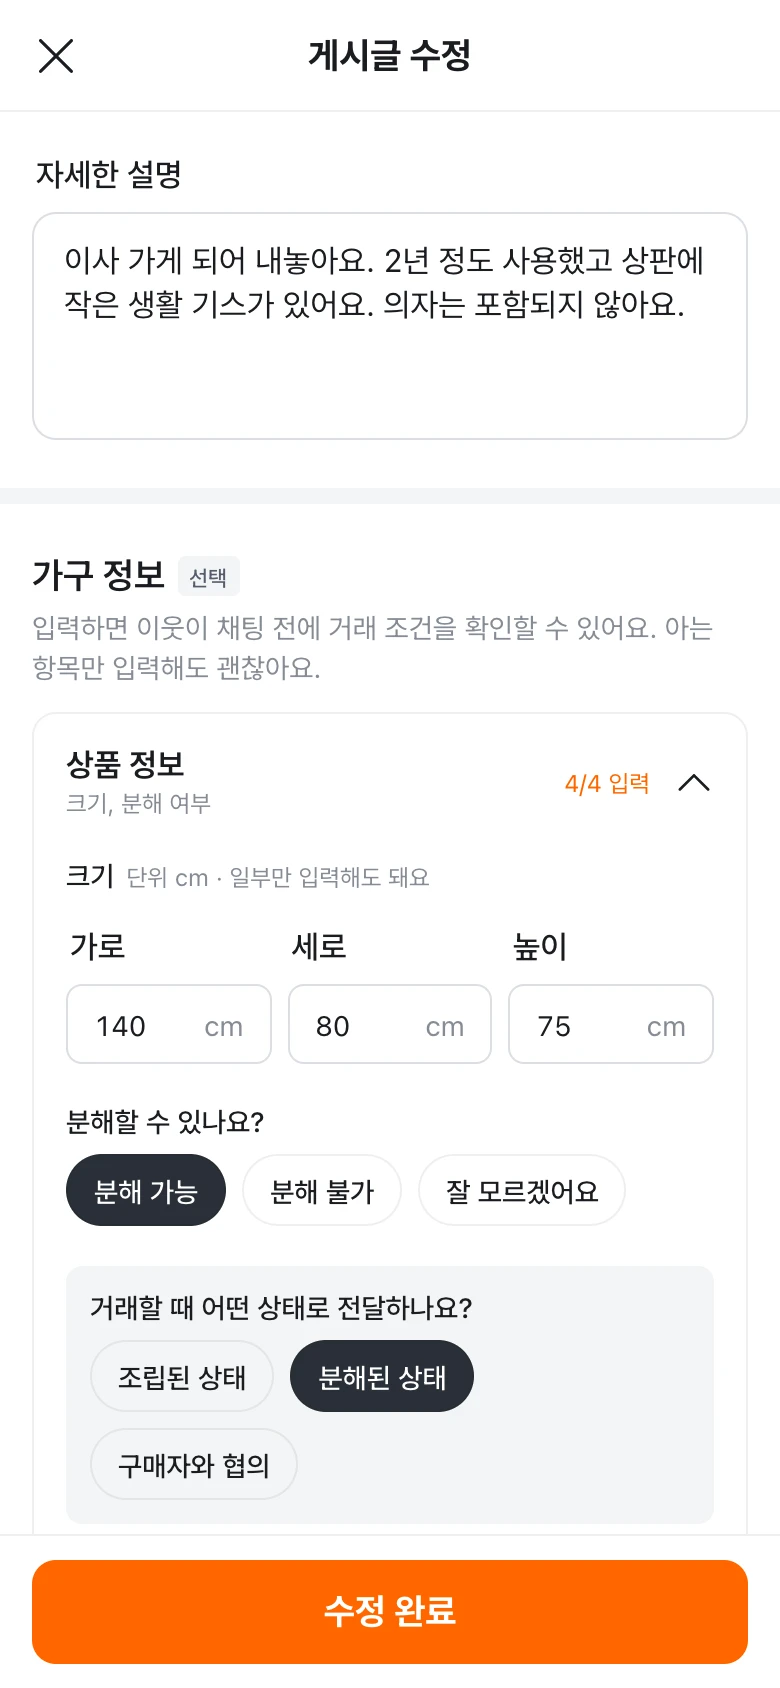
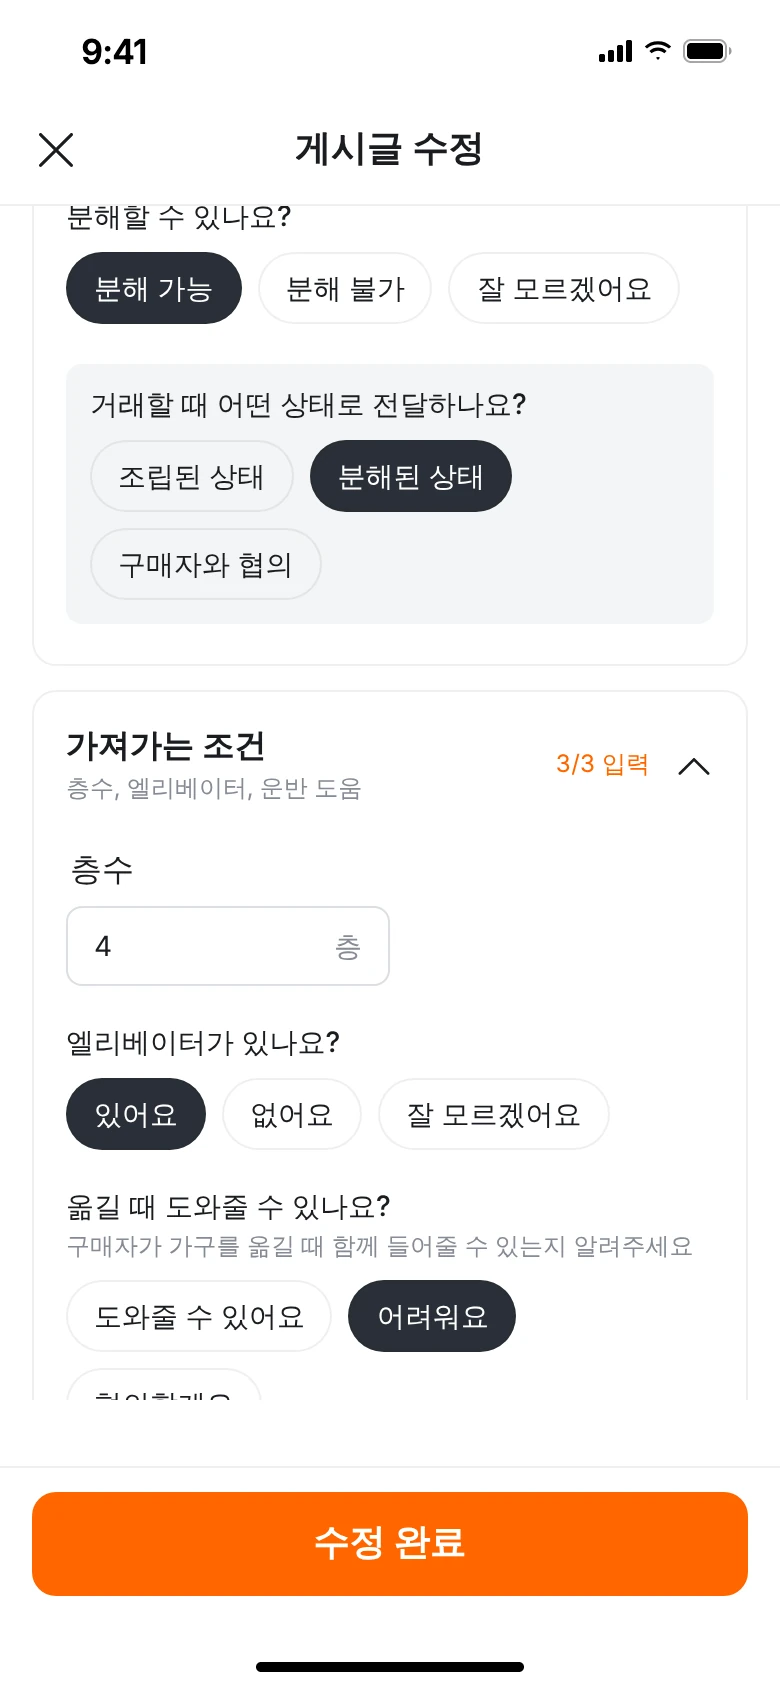
feat: 당근 전체 UI 20장을 새 PNG로 교체(긴 화면은 설명 위치 + 하단 CTA 고정), 가려진 끝부분 복원, 판매글 작성 AS-IS 화면 추가

diff --git a/src/data/projects.ts b/src/data/projects.ts
@@ -148,24 +148,27 @@ export const projects: Project[] = [
       { src: '/images/karrot-large-furniture/f-home.webp', alt: '동네 홈 목록: 원목 4인용 식탁 등 가구 판매글과 글쓰기 버튼', caption: '동네 홈' },
       { src: '/images/karrot-large-furniture/L-s2.webp', alt: '판매글 작성을 아래로 스크롤하면 나오는 선택 입력 가구 정보 섹션', caption: '판매자 · 글 작성' },
       { src: '/images/karrot-large-furniture/L-s3.webp', alt: '가구 정보 입력: 크기와 분해 여부, 가져가는 조건을 선택해서 입력', caption: '가구 정보 입력' },
+      { src: '/images/karrot-large-furniture/f-s4.webp', alt: '높이에 0을 입력했을 때 0보다 큰 숫자로 입력해 달라고 알려주는 화면', caption: '크기 입력 오류' },
+      { src: '/images/karrot-large-furniture/L-s5.webp', alt: '비정상적으로 큰 크기 값을 입력했을 때 재확인을 요청하는 화면', caption: '큰 값 재확인' },
+      { src: '/images/karrot-large-furniture/f-recheck.webp', alt: '가로 1,400cm처럼 큰 값을 입력하면 맞는지 다시 묻는 확인창', caption: '등록 전 재확인' },
       { src: '/images/karrot-large-furniture/f-confirm.webp', alt: '입력 정보 확인: 구매자에게 보이는 모습을 미리 보고 등록', caption: '입력 정보 확인' },
       { src: '/images/karrot-large-furniture/f-confirm-empty.webp', alt: '입력 정보 확인: 가구 정보를 입력하지 않으면 아직 입력되지 않았어요로 표시', caption: '입력 정보 확인 · 미입력' },
       { src: '/images/karrot-large-furniture/L-s9.webp', alt: '판매글을 올린 직후 판매자 상세 화면', caption: '등록 직후 상세' },
       { src: '/images/karrot-large-furniture/L-b1.webp', alt: '상품 상세를 스크롤하면 나오는 거래 정보 카드: 크기 및 분해, 가져가는 조건이 정리됨', caption: '구매자 · 상세(스크롤)' },
+      { src: '/images/karrot-large-furniture/L-b2.webp', alt: '일부만 입력된 상품 상세: 미입력과 모름을 구분해 표시', caption: '상세 · 일부 입력' },
       { src: '/images/karrot-large-furniture/f-b3.webp', alt: '어떤 정보가 궁금하세요? 질문 고르기 바텀시트', caption: '질문 고르기' },
       { src: '/images/karrot-large-furniture/f-b4.webp', alt: '고른 질문이 채팅 입력창 초안으로 추가된 화면', caption: '채팅 질문 초안' },
       { src: '/images/karrot-large-furniture/L-c1.webp', alt: '판매자가 게시글 수정 화면에서 가격과 설명을 고치는 화면', caption: '판매자 · 게시글 수정' },
-      { src: '/images/karrot-large-furniture/f-c3.webp', alt: '상세 상단에 판매자가 상품 정보를 수정했다는 안내와 이전 가격이 보이는 화면', caption: '상세 · 변경 안내' },
       { src: '/images/karrot-large-furniture/f-c2.webp', alt: '채팅방에 판매자가 상품 정보를 수정했다는 시스템 메시지가 남은 화면', caption: '채팅 · 변경 알림' },
-      { src: '/images/karrot-large-furniture/k-changed.webp', alt: '판매자가 수정한 가격·분해 여부를 비교하는 바텀시트', caption: '변경 내용 비교' },
-      { src: '/images/karrot-large-furniture/L-s5.webp', alt: '비정상적으로 큰 크기 값을 입력했을 때 재확인을 요청하는 화면', caption: '큰 값 재확인' },
-      { src: '/images/karrot-large-furniture/L-b2.webp', alt: '일부만 입력된 상품 상세: 미입력과 모름을 구분해 표시', caption: '상세 · 일부 입력' },
+      { src: '/images/karrot-large-furniture/f-c3.webp', alt: '상세 상단에 판매자가 상품 정보를 수정했다는 안내와 이전 가격이 보이는 화면', caption: '상세 · 변경 안내' },
+      { src: '/images/karrot-large-furniture/f-c4.webp', alt: '판매자가 수정한 가격·분해 여부를 비교하는 바텀시트', caption: '변경 내용 비교' },
       { src: '/images/karrot-large-furniture/L-e1.webp', alt: '정보 조회에 실패했을 때의 상세 화면', caption: '정보 조회 실패' },
+      { src: '/images/karrot-large-furniture/f-e2.webp', alt: '거래 정보를 다시 불러오는 중일 때의 상세 화면', caption: '다시 불러오는 중' },
       { src: '/images/karrot-large-furniture/f-done.webp', alt: '거래가 완료된 상품 상세: 거래완료 안내와 비활성 버튼', caption: '거래 완료' },
     ],
     sections: [
       { id: 'overview', title: 'Overview', body: '질문하기 전에 알 수 있는 당근 상품 정보. 대형 가구 중고거래에서 판매자가 거래 조건을 쉽게 입력하고, 구매자가 채팅 전에 필요한 정보를 확인하도록 설계한 비공식 UX 개선 프로젝트입니다(PRD v2.1).\n\n기획, 디자인, 프로토타입 구현을 혼자 진행했습니다.' },
-      { id: 'screens', title: 'Screens (프로토타입 캡처)', body: '당근의 비공식 개인 UX 개선 제안이며 소속 회사와 무관합니다. 아래는 당근 SEED Design의 공개 토큰·컴포넌트를 바탕으로 React로 구현한 클릭형 프로토타입(20개 화면 중 일부)을 캡처한 화면이고, 상품 정보는 예시입니다.' },
+      { id: 'screens', title: 'Screens (개선안 화면 20개)', body: '당근의 비공식 개인 UX 개선 제안이며 소속 회사와 무관합니다. 아래는 당근 SEED Design의 공개 토큰·컴포넌트를 바탕으로 설계한 개선안 화면 20개입니다. 긴 화면은 설명에 맞는 위치를 보여주고 하단 버튼은 실제 앱처럼 화면 아래에 고정했어요. 화면을 누르면 끝까지 스크롤해서 볼 수 있어요. 상품 정보는 예시입니다.' },
       { id: 'problem', title: 'Problem', body: '대형 가구 거래에서는 상품 크기, 분해 가능 여부, 운반 조건이 구매 결정에 중요한 정보가 될 수 있습니다. 그런데 이 정보가 상품 설명에 빠지거나 자유로운 문장으로 쓰이면, 구매자는 필요한 정보를 찾기 어렵고 판매자에게 같은 질문을 반복해야 할 수 있습니다.\n\n핵심 문제: 구매자는 대형 가구의 거래 가능 여부를 판단하는 데 필요한 정보를 채팅 전에 충분히 확인하기 어렵다.\n\n※ 디자인 가설입니다. 실제 발생 빈도와 영향은 사용자 테스트로 검증해야 합니다.' },
       { id: 'research', title: 'Evidence / Research', body: '실제 서비스를 쓰는 사람들의 불편을 구글 플레이·앱스토어 앱 리뷰와 블로그 등 웹 후기에서 VOC로 모았고, 실제 사용자 인터뷰도 진행했습니다. 이 근거를 바탕으로 PRD의 문제 정의를 세웠습니다.\n\n※ VOC와 인터뷰의 원자료가 남아 있지 않아 표본 수, 인용, 수치는 싣지 않습니다. 문제의 실제 발생 빈도와 영향은 사용성 테스트로 검증해야 하는 디자인 가설입니다.' },
       { id: 'insight', title: 'Insight', body: '정보를 더 많이 입력하게 만드는 것이 아니라, 구매자가 판단하는 데 필요한 정보를 쉽게 제공하는 것이 핵심이라고 정리했습니다. 또 "아직 입력되지 않음", "판매자도 모름", "불러오지 못함"은 서로 다른 상태라서 구분해 보여줘야 한다고 보았습니다.' },

diff --git a/src/pages/CaseGeneric.tsx b/src/pages/CaseGeneric.tsx
@@ -362,7 +362,7 @@ function Olive({ c }: { c: Ctx }) {
 const I2 = (n: string) => `/images/karrot-large-furniture/${n}.webp`
 const karrotCompare: CompareData[] = [
   { n: '01', title: '판매글 작성 · 가구 정보를 따로 받아요', sub: '판매자가 크기·분해 여부·운반 조건을 자유 서술에 의존하지 않고 선택 입력 섹션으로 정리해 남길 수 있어요.',
-    before: { src: '', alt: '', label: '현재 당근 앱' },
+    before: { src: I2('asis-write'), alt: '현재 당근 앱 판매글 작성: 사진, 제목, 자세한 설명, 가격 입력만 있고 대형 가구 거래 조건을 입력하는 칸이 없음', label: '현재 당근 앱' },
     afters: [{ src: I2('L-s2'), alt: '개선 판매글 작성: 자세한 설명 아래에 선택 입력 가구 정보 섹션', tag: 'S2', label: '판매글 작성 · 아래로 스크롤' }, { src: I2('L-s3'), alt: '개선 가구 정보 입력: 크기와 분해 여부, 가져가는 조건 입력', tag: 'S3', label: '가구 정보 입력 · 펼친 상태' }],
     current: ['크기·분해 여부·운반 조건을 ‘자세한 설명’ 자유 입력란에 쓸 수 있어요. 판매자마다 쓰는 정보의 양과 형식이 달라져요.', '거래 방식·가격 외에 대형 가구 거래에 필요한 조건(층수, 엘리베이터, 운반 도움)을 입력하는 칸이 없어요.'],
     improved: ['S2 · 판매글 작성에 ‘가구 정보’ 섹션을 선택 입력으로 추가했어요. 상품 정보(크기, 분해 여부)와 가져가는 조건(층수, 엘리베이터, 운반 도움)으로 나뉘어요.', 'S3 · 아는 항목만 입력해도 되고 섹션별 입력 진행도(4/4 입력, 3/3 입력)를 바로 보여줘요.'] },
@@ -443,8 +443,8 @@ function Karrot({ c }: { c: Ctx }) {
         <Reveal><blockquote className="mt-10 text-[28px] md:text-[40px] font-bold tracking-tight leading-snug max-w-[26ch]" style={{ borderLeft: `6px solid ${A}`, paddingLeft: 24 }}>{p.problem}</blockquote></Reveal>
         <ul className="mt-12 grid md:grid-cols-3 gap-5">{[['크기', '가로·세로·높이를 설명에서 찾아야 함'], ['분해 · 운반', '분해 가능 여부와 가져가는 조건이 문장으로 흩어짐'], ['반복 질문', '판매자에게 같은 질문을 되풀이해야 할 수 있음']].map(([a, b]) => <li key={a} className="rounded-[20px] p-6" style={{ background: T(14) }}><p className="text-[13px] font-semibold" style={{ color: S }}>{a}</p><p className="mt-2 text-[17px] leading-snug">{b}</p></li>)}</ul>
         <div className="mt-14"><p className="eyebrow text-sub">실제 당근 앱 · AS-IS 캡처</p>
-          <ul className="mt-5 grid grid-cols-3 gap-4 md:gap-8 max-w-3xl">{[['asis-search', '대형가구 검색 결과'], ['asis-desc', '상품 본문: 크기가 문장 속에'], ['asis-loc', '거래 장소·용달비 안내']].map(([n, l]) => <li key={n}><Fig src={I(n)} alt={`실제 당근 앱 ${l}`} cap={l} /></li>)}</ul>
-          <p className="mt-4 text-[13px] text-sub max-w-3xl">실제 앱 화면 캡처이며 판매자 닉네임, 거래 장소 주소·지도, 캡처한 사람의 정보는 가렸습니다.</p></div>
+          <ul className="mt-5 grid grid-cols-3 gap-4 md:grid-cols-5 md:gap-6 max-w-5xl">{[['asis-write', '판매글 작성: 제목·설명·가격만 입력'], ['asis-write-ai', '사진 분석 중(AI 작성)'], ['asis-search', '대형가구 검색 결과'], ['asis-desc', '상품 본문: 크기가 문장 속에'], ['asis-loc', '거래 장소·용달비 안내']].map(([n, l]) => <li key={n}><Fig src={I(n)} alt={`실제 당근 앱 ${l}`} cap={l} /></li>)}</ul>
+          <p className="mt-4 text-[13px] text-sub max-w-3xl">실제 앱 화면 캡처이며 판매자 닉네임, 거래 장소 주소·지도, 캡처한 사람의 정보는 가렸습니다. 판매글 작성 화면 두 장은 동네 이름과 거래 희망 장소를 가리지 않았습니다.</p></div>
         <p className="mt-10 text-[13px] text-sub max-w-3xl">앱 리뷰·블로그 VOC와 인터뷰를 근거로 PRD 문제를 정의했습니다. 원자료가 없어 표본 수와 수치는 싣지 않았고, 발생 빈도와 영향은 사용성 테스트로 검증해야 하는 디자인 가설입니다.</p>
       </section>
 
@@ -469,7 +469,7 @@ function Karrot({ c }: { c: Ctx }) {
           <Reveal className="mt-20 md:mt-24 md:grid md:grid-cols-12 gap-10 items-center">
             <div className="md:col-span-5"><Num n="03" t="질문은 초안으로만, 보내는 건 사용자" />
               <ul className="mt-8 space-y-5"><Ann color={A} n="A" t="궁금한 항목만 골라 채팅 초안 생성" /><Ann color={A} n="B" t="자동 전송하지 않고 기존 입력을 보존" d="사용자가 고치고 직접 보냅니다." /><Ann color={A} n="C" t="정보가 바뀌면 변경 항목만 비교" d="이전 값이 실제로 있을 때만 전후를 보여줍니다." /></ul></div>
-            <div className="mt-10 md:mt-0 md:col-span-7 grid grid-cols-3 gap-4 md:gap-6"><Fig src={I('f-b3')} alt="질문 고르기" cap="질문 고르기" /><Fig src={I('k-chat')} alt="채팅 질문 초안" cap="채팅 초안" className="md:mt-10" /><Fig src={I('k-changed')} alt="변경 내용 비교" cap="변경 비교" /></div>
+            <div className="mt-10 md:mt-0 md:col-span-7 grid grid-cols-3 gap-4 md:gap-6"><Fig src={I('f-b3')} alt="질문 고르기" cap="질문 고르기" /><Fig src={I('f-b4')} alt="채팅 질문 초안" cap="채팅 초안" className="md:mt-10" /><Fig src={I('f-c4')} alt="변경 내용 비교" cap="변경 비교" /></div>
           </Reveal>
         </div>
       </section>

diff --git a/src/components/Modal.tsx b/src/components/Modal.tsx
@@ -1,4 +1,5 @@
 import { useEffect, useRef, useState, type ReactNode } from 'react'
+import { karrotFull } from '../data/karrotBig'
 
 // 네이티브 <dialog>: 포커스 가두기·Esc·배경 클릭 닫기, 닫히면 트리거로 포커스 복귀.
 export function Modal({ open, onClose, label, children }: { open: boolean; onClose: () => void; label: string; children: ReactNode }) {
@@ -22,6 +23,9 @@ export function Modal({ open, onClose, label, children }: { open: boolean; onClo
 // 이미지를 누르면 크게 보는 버튼형 이미지
 export function Zoomable({ src, alt, caption, className = '', imgClass = '', big }: { src: string; alt: string; caption?: string; className?: string; imgClass?: string; big?: string }) {
   const [open, setOpen] = useState(false)
+  const kf = big ? undefined : karrotFull(src)
+  const full = big ?? (kf && 'big' in kf ? kf.big : undefined)
+  const wrap = 'mx-auto max-h-[74vh] w-[min(390px,92vw)] overflow-y-auto overscroll-contain rounded-[20px] bg-white'
   return (
     <>
       <button type="button" className={`zoomable ${className}`} onClick={() => setOpen(true)} aria-label={`${alt}: 크게 보기`}>
@@ -29,9 +33,11 @@ export function Zoomable({ src, alt, caption, className = '', imgClass = '', big
       </button>
       <Modal open={open} onClose={() => setOpen(false)} label={alt}>
         <figure className="text-white text-center">
-          {big
-            ? <div className="mx-auto max-h-[74vh] w-[min(390px,92vw)] overflow-y-auto overscroll-contain rounded-[20px] bg-white"><img src={big} alt={alt} className="block w-full" /></div>
-            : <img src={src} alt={alt} className="mx-auto max-h-[82vh] w-auto max-w-[92vw] rounded-[20px]" />}
+          {kf && 'parts' in kf
+            ? <div className={`${wrap} relative`}><img src={kf.parts.top} alt="" aria-hidden className="sticky top-0 z-10 block w-full bg-white" /><img src={kf.parts.body} alt={alt} className="block w-full" /><img src={kf.parts.cta} alt="" aria-hidden className="sticky bottom-0 z-10 block w-full" style={{ boxShadow: '0 -8px 14px -8px rgba(0,0,0,.18)' }} /></div>
+            : full
+              ? <div className={wrap}><img src={full} alt={alt} className="block w-full" /></div>
+              : <img src={src} alt={alt} className="mx-auto max-h-[82vh] w-auto max-w-[92vw] rounded-[20px]" />}
           {caption && <figcaption className="mt-3 text-[14px]">{caption}</figcaption>}
         </figure>
       </Modal>

diff --git a/src/data/karrotBig.ts b/src/data/karrotBig.ts
@@ -1,0 +1,18 @@
+// 당근 화면을 눌렀을 때 보여줄 '전체 스크롤' 이미지를 찾아요.
+// 하단 고정 버튼이 있는 화면은 상단·본문·하단으로 나눠서 스크롤하는 동안에도 버튼이 아래에 붙어 있게 해요.
+const BASE = '/images/karrot-large-furniture/'
+const ID: Record<string, string> = {
+  'f-b1': 'b1', 'L-b1': 'b1', 'f-b2': 'b2', 'L-b2': 'b2', 'f-b3': 'b3', 'f-b4': 'b4',
+  'f-edit': 'c1', 'L-c1': 'c1', 'f-c2': 'c2', 'f-c3': 'c3', 'L-c3': 'c3', 'f-c4': 'c4',
+  'f-e1': 'e1', 'L-e1': 'e1', 'f-e2': 'e2', 'f-done': 'e3',
+  'f-home': 's1', 'f-s2': 's2', 'L-s2': 's2', 'f-s3': 's3', 'L-s3': 's3', 'f-s4': 's4', 'f-s5': 's5', 'L-s5': 's5',
+  'asis-write': 'aw', 'f-recheck': 's6', 'f-confirm': 's7', 'f-confirm-empty': 's8', 'f-posted': 's9', 'L-s9': 's9',
+}
+const STICKY = new Set(['aw', 'b1', 'b2', 'c1', 'c3', 'e1', 'e2', 'e3', 's2', 's3', 's4', 's5', 's9'])
+export type KarrotFull = { big: string } | { parts: { top: string; body: string; cta: string } }
+export function karrotFull(src: string): KarrotFull | undefined {
+  if (!src.startsWith(BASE)) return undefined
+  const id = ID[src.slice(BASE.length).replace(/\.webp$/, '')]
+  if (!id) return undefined
+  return STICKY.has(id) ? { parts: { top: `${BASE}sp-${id}-top.webp`, body: `${BASE}sp-${id}-body.webp`, cta: `${BASE}sp-${id}-cta.webp` } } : { big: `${BASE}full-${id}.webp` }
+}

diff --git a/src/components/Sections.tsx b/src/components/Sections.tsx
@@ -77,7 +77,7 @@ export function Work() {
 
 const approach = [
   { key: 'Structure', title: '이해할 수 있는 구조', text: '복잡한 정보를 사용자가 이해할 수 있는 구조로 정리합니다.', shot: { src: '/images/oliveyoung-todaydream/n-altMethods.webp', alt: '올리브영 수령 방법 비교 화면', cap: '수령 방법 비교' } },
-  { key: 'Decision', title: '스스로 내리는 판단', text: '필요한 정보를 바탕으로 사용자가 스스로 판단할 수 있도록 설계합니다.', shot: { src: '/images/karrot-large-furniture/k-partial.webp', alt: '당근 정보 상태 구분 화면', cap: '정보 상태 구분' } },
+  { key: 'Decision', title: '스스로 내리는 판단', text: '필요한 정보를 바탕으로 사용자가 스스로 판단할 수 있도록 설계합니다.', shot: { src: '/images/karrot-large-furniture/L-b2.webp', alt: '당근 정보 상태 구분 화면', cap: '정보 상태 구분' } },
   { key: 'Craft', title: '동작하는 경험', text: '아이디어를 실제 동작하는 경험으로 구현하고 피드백을 바탕으로 개선합니다.', shot: { src: '/images/trigr/tr-reward-2.webp', alt: 'trigr 남은 상금 계산 화면', cap: '결과 확인' } },
 ]
 
